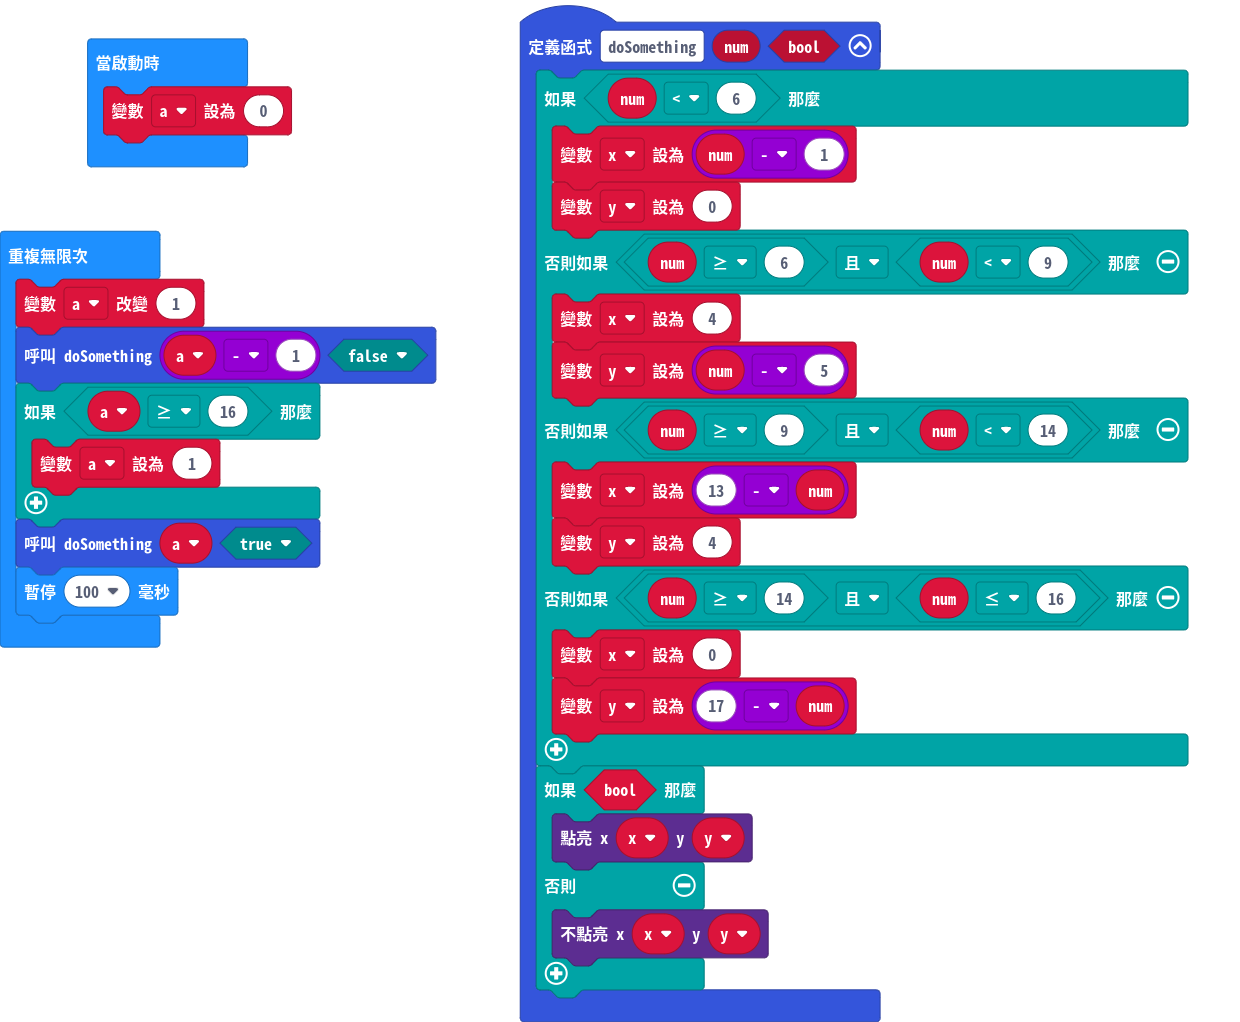
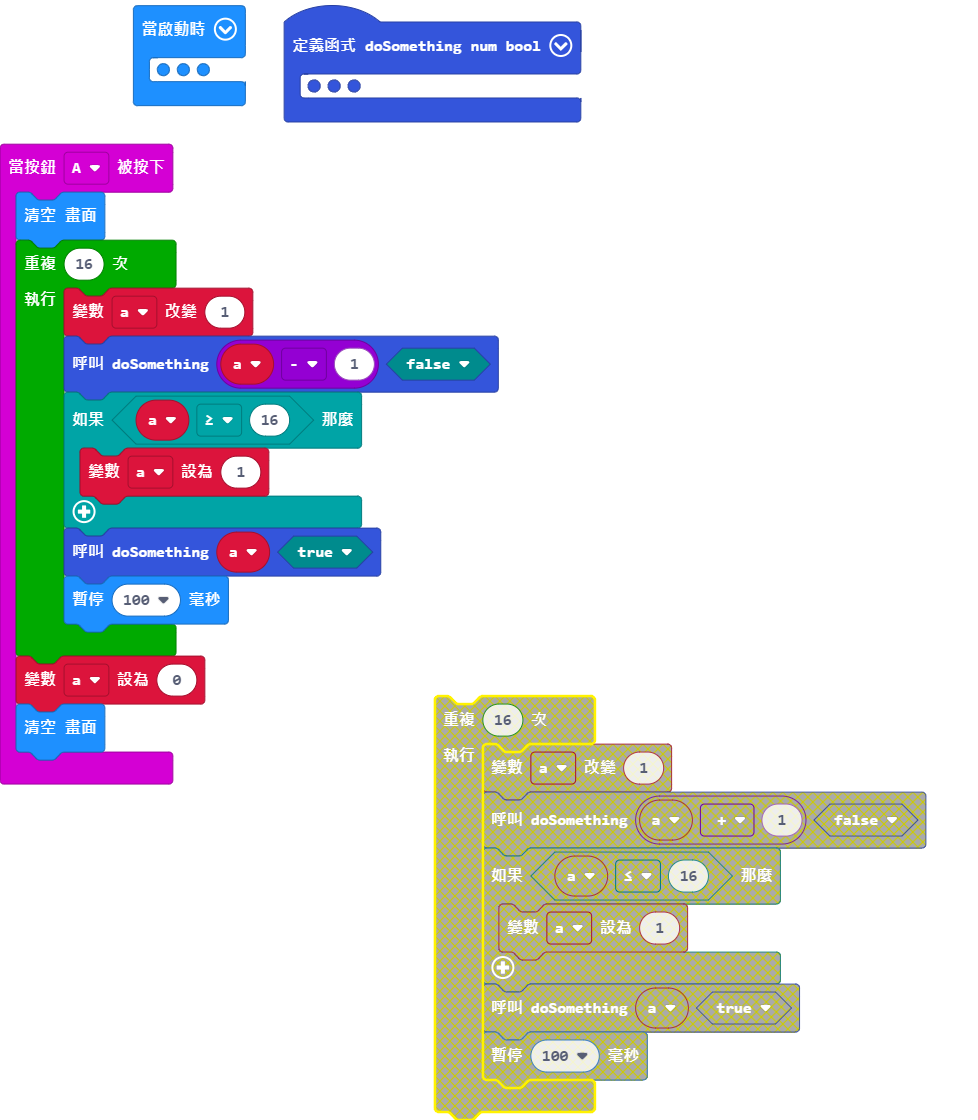
更新 pxt.json, main.blocks, main.ts

diff --git a/main.ts b/main.ts
@@ -1,3 +1,17 @@
+input.onButtonPressed(Button.A, function () {
+    basic.clearScreen()
+    for (let index = 0; index < 16; index++) {
+        a += 1
+        doSomething(a - 1, false)
+        if (a >= 16) {
+            a = 1
+        }
+        doSomething(a, true)
+        basic.pause(100)
+    }
+    a = 0
+    basic.clearScreen()
+})
 function doSomething (num: number, bool: boolean) {
     if (num < 6) {
         x = num - 1
@@ -21,7 +35,9 @@ function doSomething (num: number, bool: boolean) {
 let y = 0
 let x = 0
 let a = 0
-basic.forever(function () {
+basic.clearScreen()
+a = 0
+for (let index = 0; index < 16; index++) {
     a += 1
     doSomething(a - 1, false)
     if (a >= 16) {
@@ -29,4 +45,6 @@ basic.forever(function () {
     }
     doSomething(a, true)
     basic.pause(100)
-})
+}
+a = 0
+basic.clearScreen()
